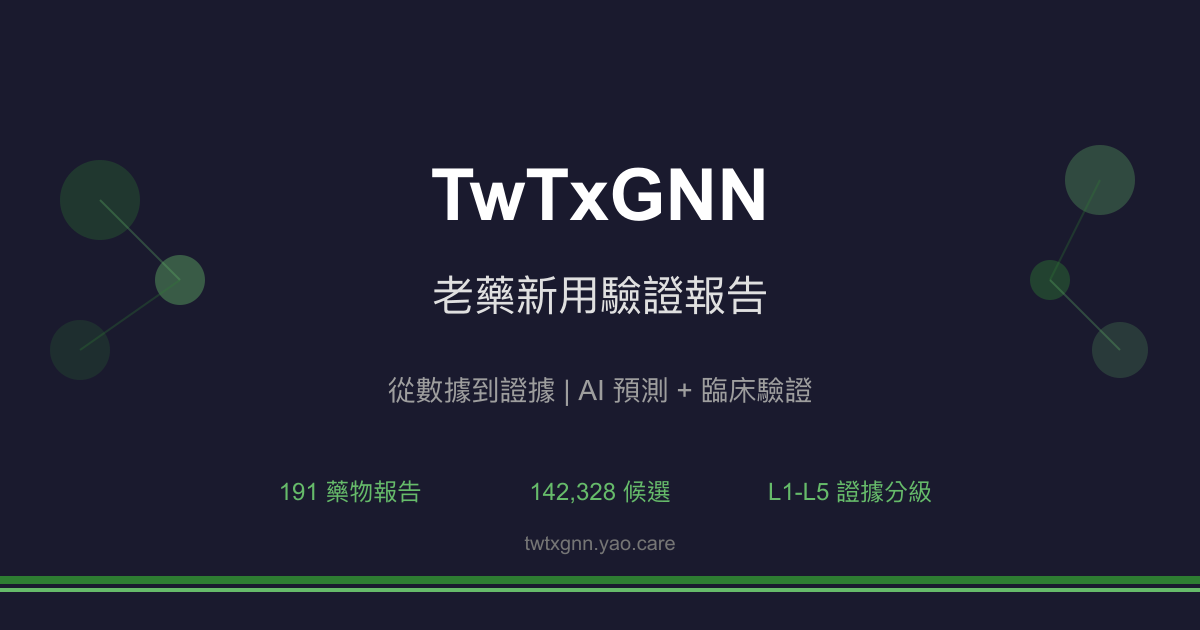
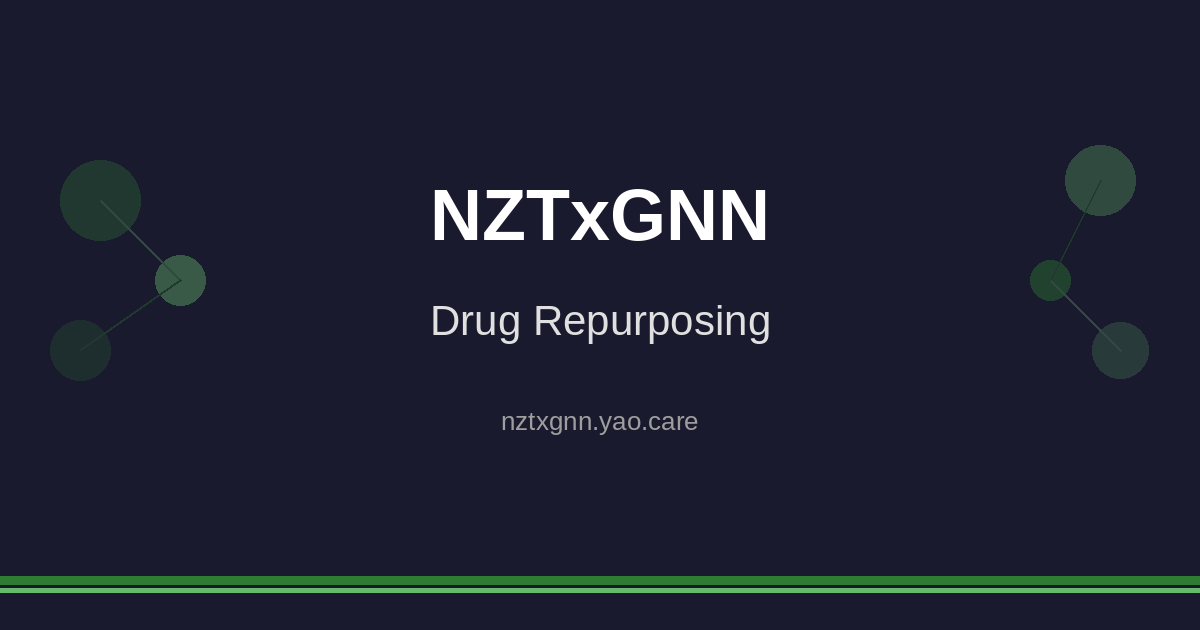
fix: 移除照抄 TwTxGNN 的內容（og 圖、分享按鈕）
- og-default.png／svg：原檔是 TwTxGNN 的圖（TwTxGNN、191 藥物報告、142,328 候選、twtxgnn.yao.care）。
  改由母 repo .claude/gen_og_image.py 產生本站圖：只放站名、網域、本站語言的一行副標（取自 _config.yml title），不放數字。
- assets/images/README.md：設計要求裡的「TwTxGNN」與標語改成本站實際內容，註明產生方式。
- _includes/social-share.html：X hashtag 與 mailto 主旨的 TwTxGNN → NZTxGNN；推文與郵件內文原為中文「老藥新用驗證報告」，按鈕文字原為英文，改成本站語言。（此 include 目前沒有頁面引用，先修正以免日後啟用時帶出 Tw 字樣。）

Claude-Session: https://claude.ai/code/session_013aGXmRzC9hmsD5XtZ9FusM

diff --git a/docs/_includes/social-share.html b/docs/_includes/social-share.html
@@ -1,9 +1,9 @@
-<!-- 學術分享按鈕 -->
+<!-- Share buttons -->
 <div class="social-share" style="margin: 2rem 0; padding: 1.25rem; background: #f8f9fa; border-radius: 8px; border: 1px solid #e0e0e0;">
   <strong style="display: block; margin-bottom: 0.75rem; color: #333;">Share this report:</strong>
   <div style="display: flex; gap: 0.5rem; flex-wrap: wrap;">
     <!-- Twitter/X -->
-    <a href="https://twitter.com/intent/tweet?text={{ page.title | url_encode }}%20%E8%80%81%E8%97%A5%E6%96%B0%E7%94%A8%E9%A9%97%E8%AD%89%E5%A0%B1%E5%91%8A&url={{ page.url | absolute_url | url_encode }}&hashtags=DrugRepurposing,TwTxGNN"
+    <a href="https://twitter.com/intent/tweet?text={{ page.title | url_encode }}%20Drug%20Repurposing%20Report&url={{ page.url | absolute_url | url_encode }}&hashtags=DrugRepurposing,NZTxGNN"
        target="_blank" rel="noopener noreferrer"
        style="display: inline-flex; align-items: center; gap: 0.375rem; padding: 0.5rem 1rem; background: #000; color: white; text-decoration: none; border-radius: 6px; font-size: 0.9rem; font-weight: 500; transition: opacity 0.2s;"
        onmouseover="this.style.opacity='0.8'" onmouseout="this.style.opacity='1'">
@@ -20,7 +20,7 @@
       LinkedIn
     </a>
 
-    <!-- 複製連結 -->
+    <!-- Copy link -->
     <button onclick="copyReportLink(this)"
             style="display: inline-flex; align-items: center; gap: 0.375rem; padding: 0.5rem 1rem; background: #6c757d; color: white; border: none; border-radius: 6px; cursor: pointer; font-size: 0.9rem; font-weight: 500; transition: all 0.2s;"
             onmouseover="this.style.background='#5a6268'" onmouseout="this.style.background='#6c757d'">
@@ -29,7 +29,7 @@
     </button>
 
     <!-- Email -->
-    <a href="mailto:?subject={{ page.title | url_encode }}%20-%20TwTxGNN&body=%E6%8E%A8%E8%96%A6%E9%80%99%E4%BB%BD%E8%80%81%E8%97%A5%E6%96%B0%E7%94%A8%E9%A9%97%E8%AD%89%E5%A0%B1%E5%91%8A%EF%BC%9A%0A%0A{{ page.url | absolute_url | url_encode }}"
+    <a href="mailto:?subject={{ page.title | url_encode }}%20-%20NZTxGNN&body=Recommended%20drug%20repurposing%20report%3A%0A%0A{{ page.url | absolute_url | url_encode }}"
        style="display: inline-flex; align-items: center; gap: 0.375rem; padding: 0.5rem 1rem; background: #EA4335; color: white; text-decoration: none; border-radius: 6px; font-size: 0.9rem; font-weight: 500; transition: opacity 0.2s;"
        onmouseover="this.style.opacity='0.8'" onmouseout="this.style.opacity='1'">
       <svg width="16" height="16" fill="currentColor" viewBox="0 0 24 24"><path d="M20 4H4c-1.1 0-1.99.9-1.99 2L2 18c0 1.1.9 2 2 2h16c1.1 0 2-.9 2-2V6c0-1.1-.9-2-2-2zm0 4l-8 5-8-5V6l8 5 8-5v2z"/></svg>

diff --git a/docs/assets/images/README.md b/docs/assets/images/README.md
@@ -15,11 +15,15 @@ nav_exclude: true
 
 ### 設計要求
 
-1. 包含網站名稱「TwTxGNN」
-2. 包含標語「老藥新用，從數據到證據」
-3. 簡潔、專業風格
-4. 背景純色或簡單圖案
+1. 包含網站名稱「NZTxGNN」與網域
+2. 包含該站語言的一行副標（取自 _config.yml 的 title）
+3. 不放藥物數、候選數等數字（會過期）
+4. 簡潔、專業風格
 5. 適合在社群媒體預覽顯示
+
+### 產生方式
+
+由 TxGNN 母 repo 的 `.claude/gen_og_image.py` 產生（同時輸出 og-default.svg）。
 
 ### 使用位置
 
